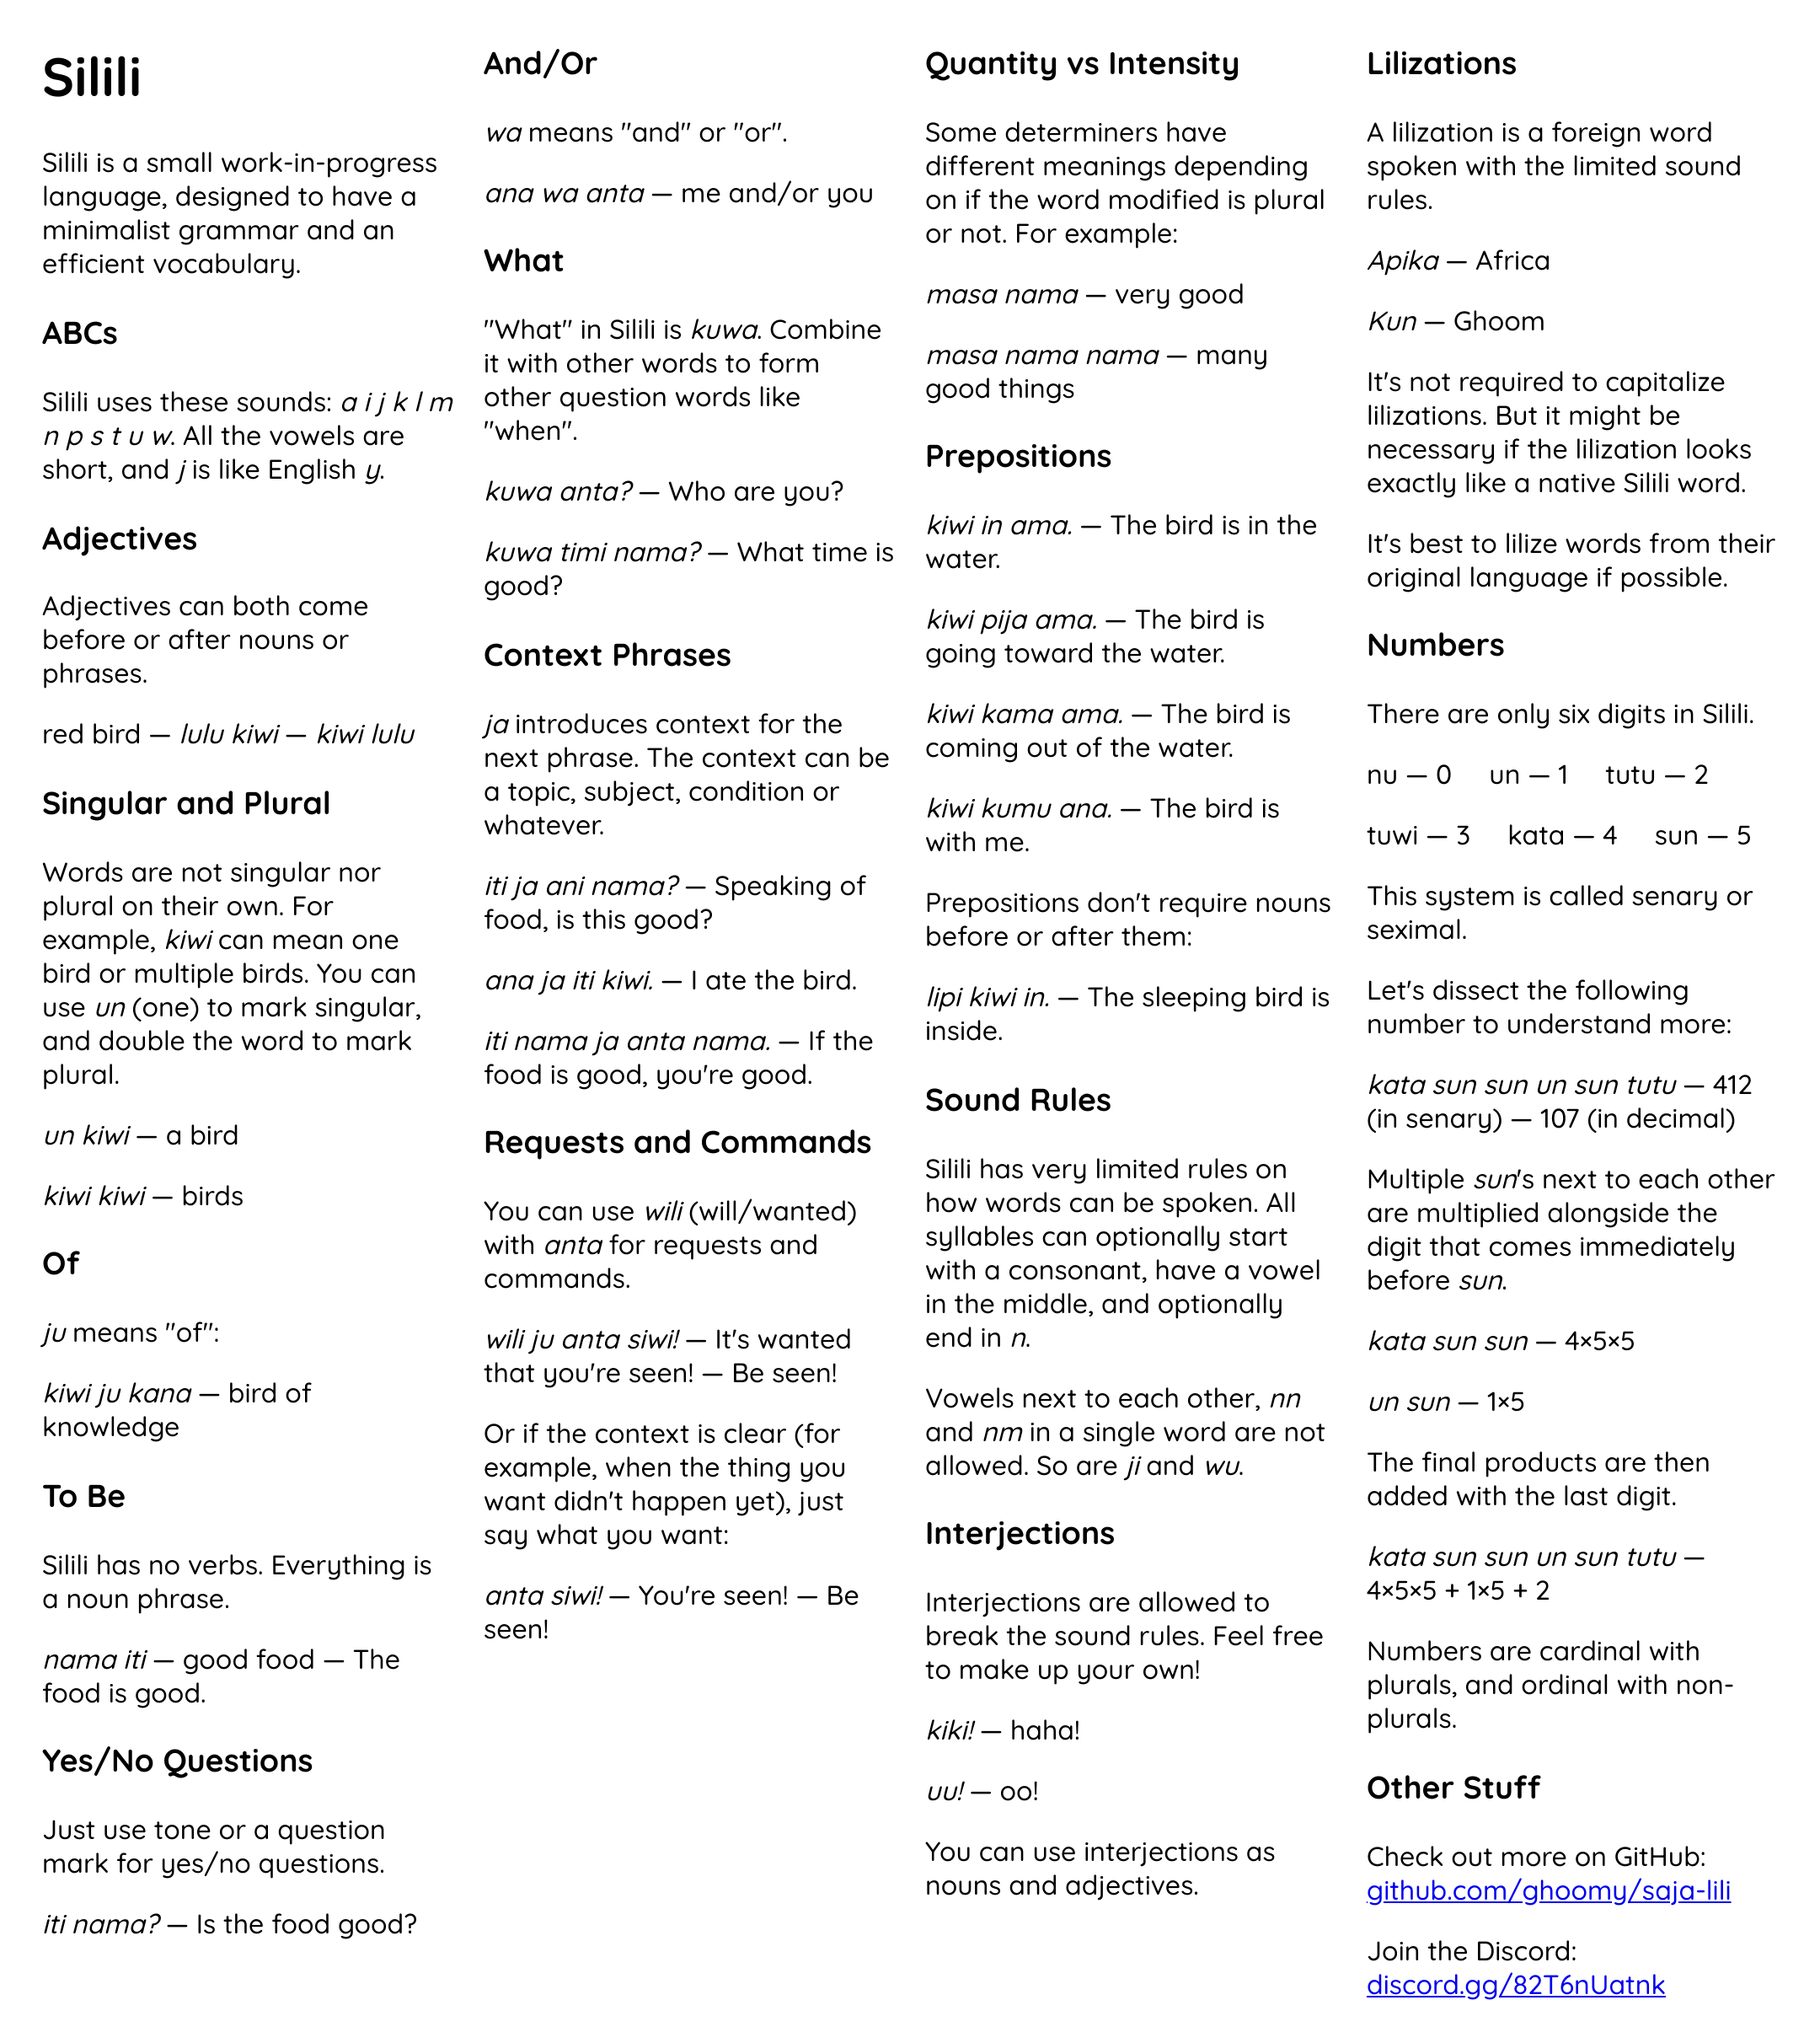
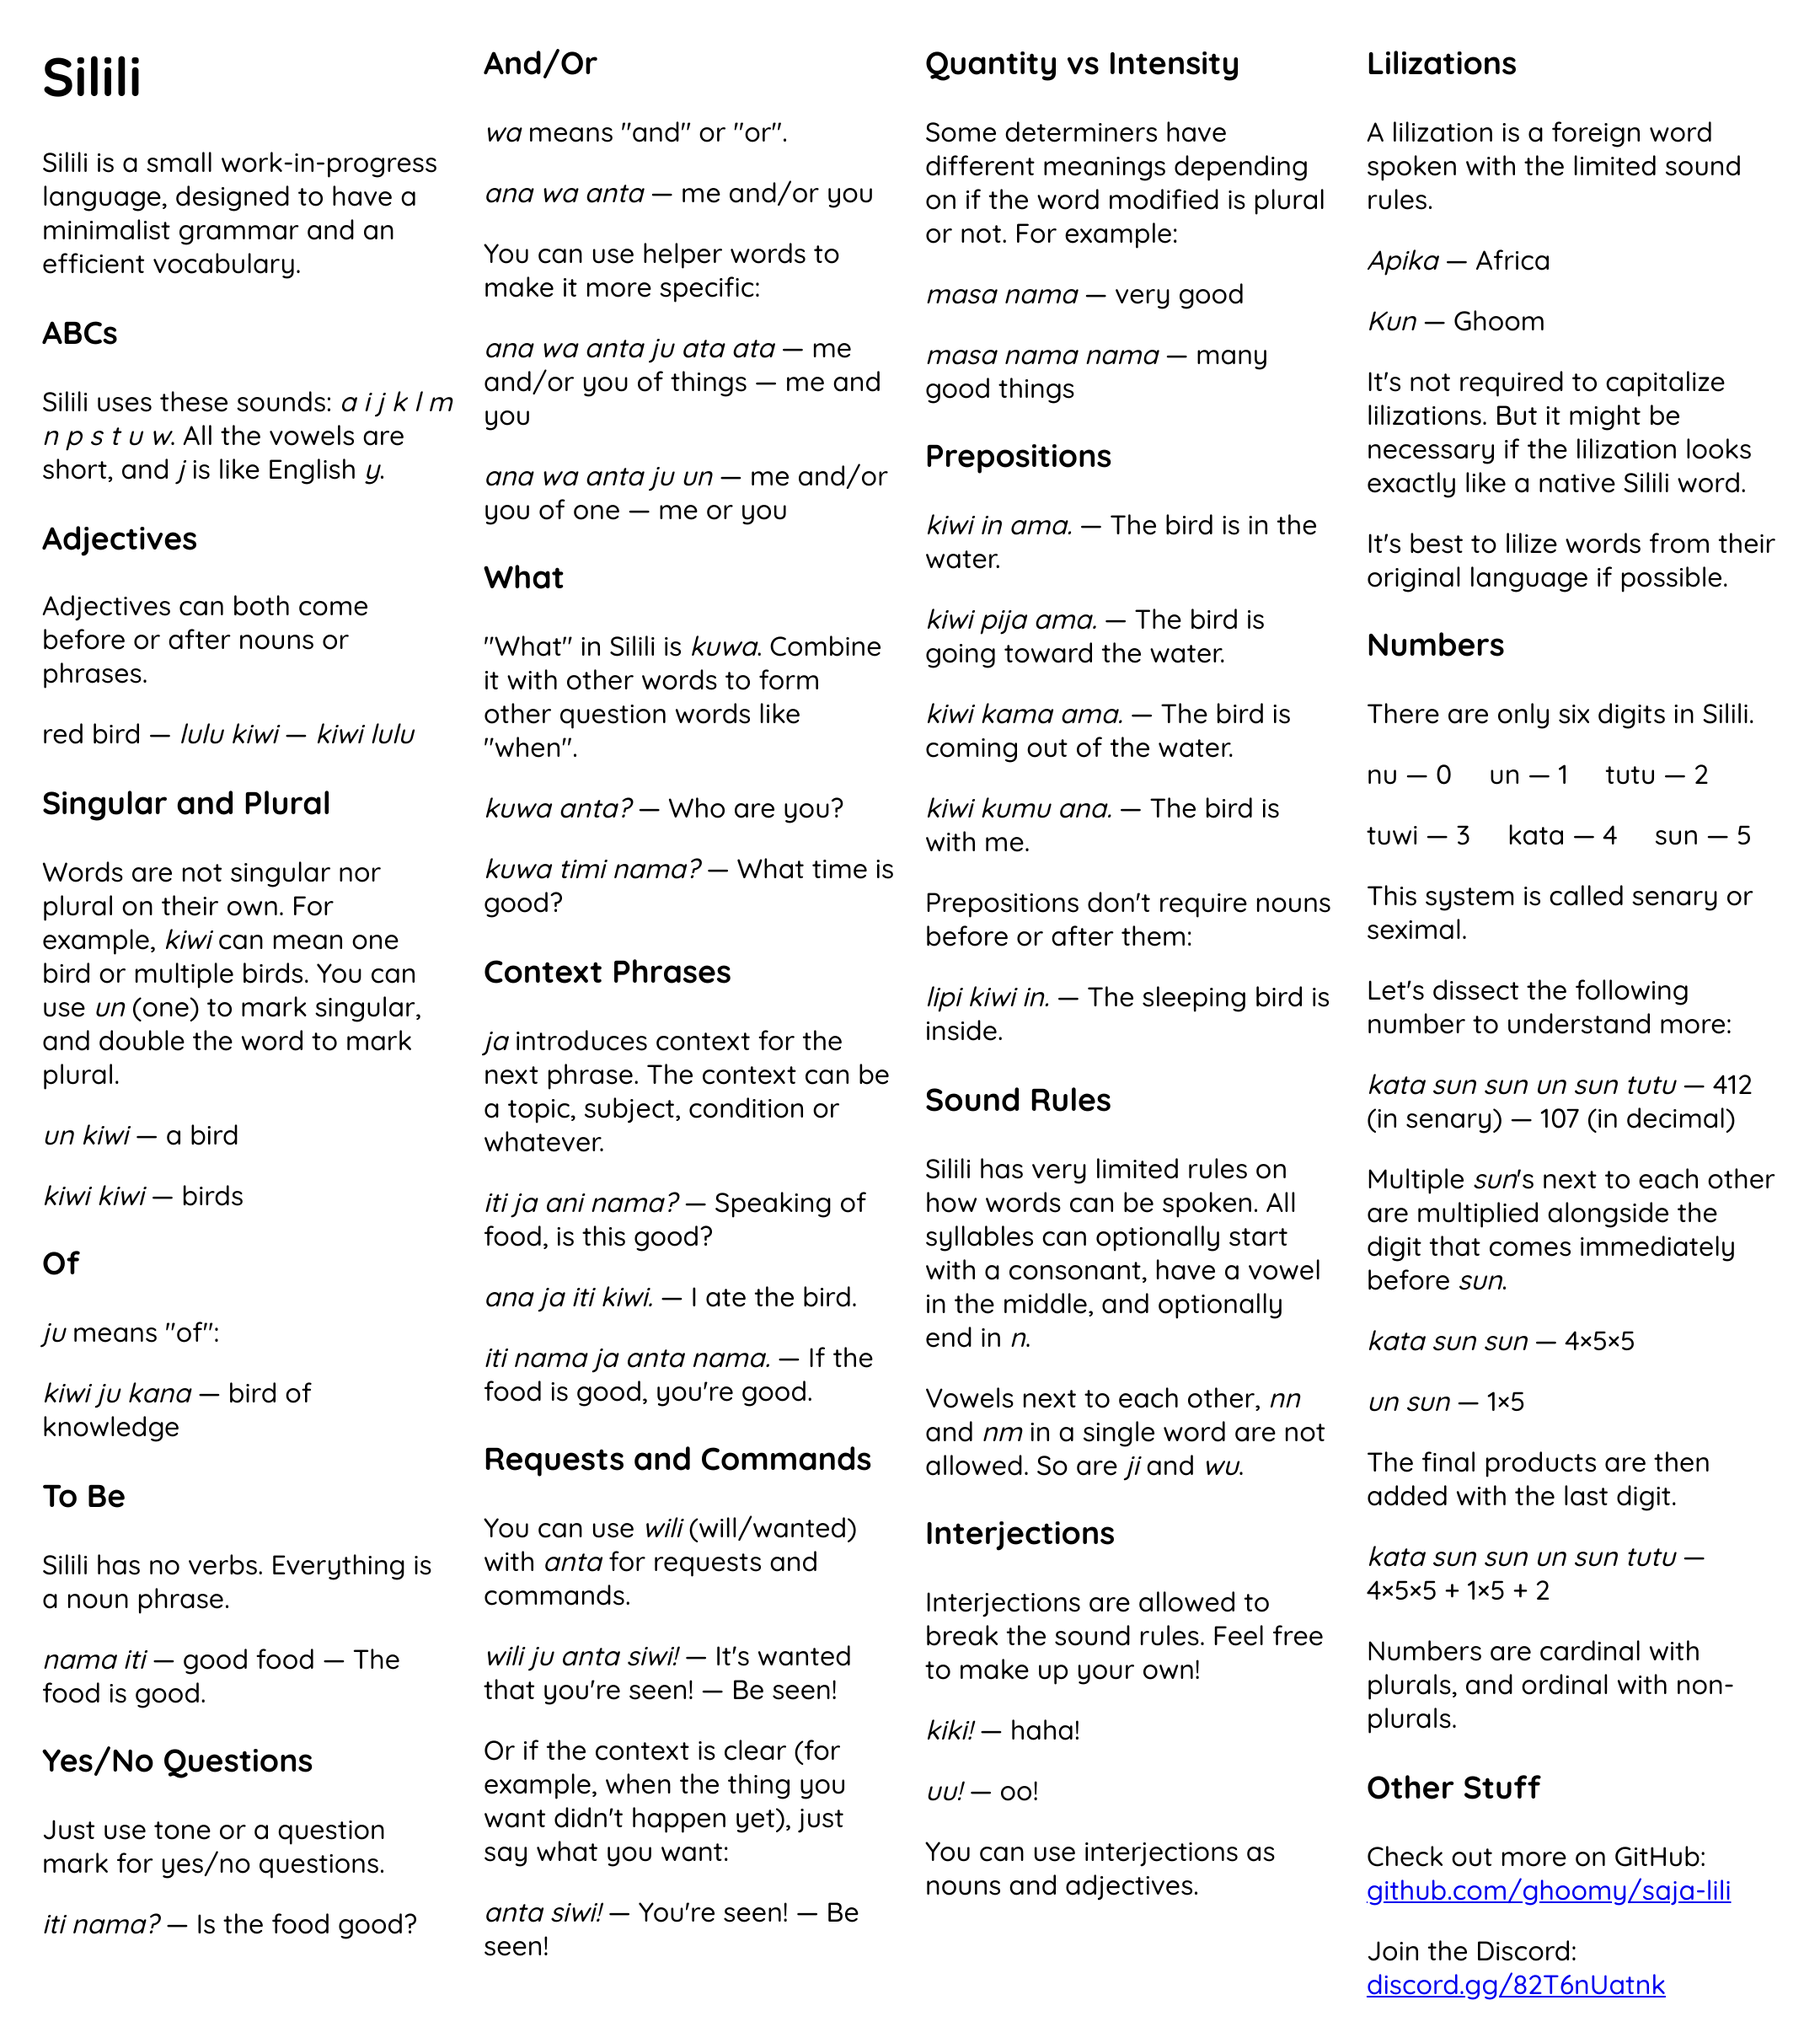
...

Changed region(s): [[0.2481, 0.1238, 0.4653, 0.9592], [0.4032, 0.9282, 0.4343, 0.9592]]

diff --git a/README.md b/README.md
@@ -61,6 +61,12 @@ Just use tone or a question mark for yes/no questions.
 
 *ana wa anta* — me and/or you
 
+You can use helper words to make it more specific:
+
+*ana wa anta ju ata ata* — me and/or you of things — me and you
+
+*ana wa anta ju un* — me and/or you of one  — me or you
+
 ### What
 
 "What" in Silili is *kuwa*. Combine it with other words to form other question words like "when".
